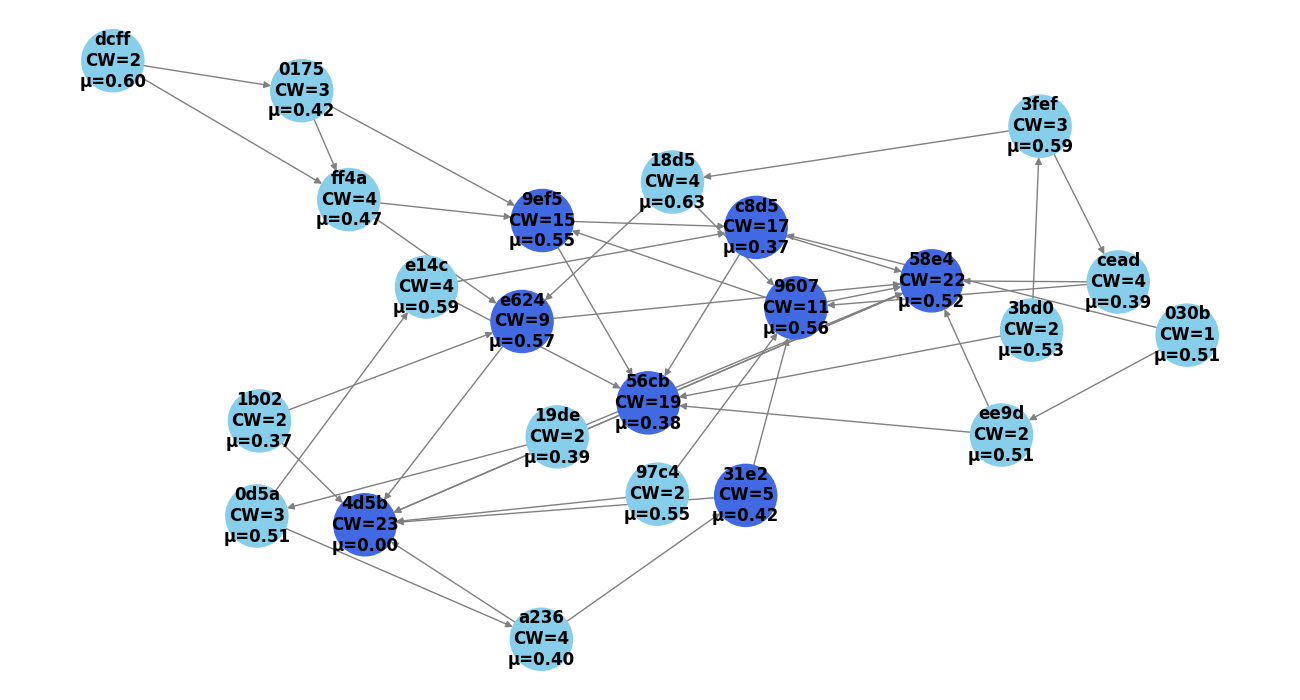
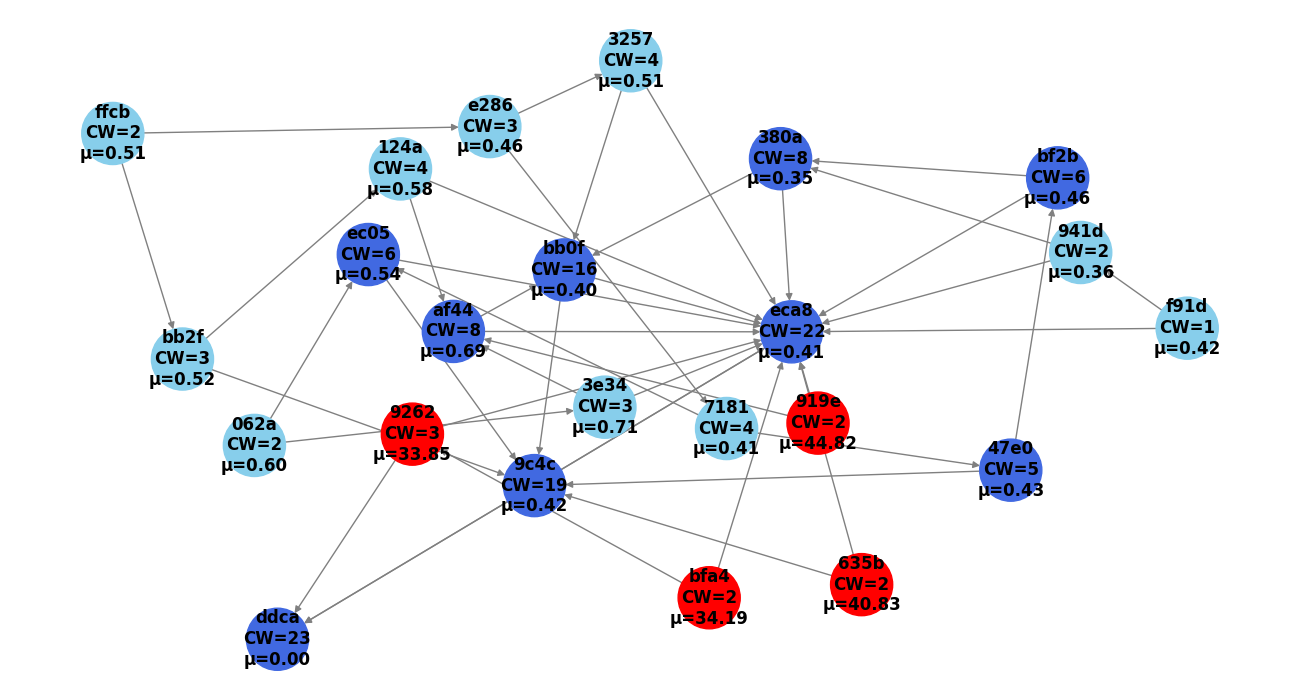
colored attackers and tweaked tip alg

diff --git a/TipSelectionAlgorithm.py b/TipSelectionAlgorithm.py
@@ -67,15 +67,29 @@ class IOTALikeTipSelector:
         
 class MyCustomTipSelector(TipSelectionAlgorithm):
 
-    def __init__(self, max_depth=3, similarity_threshold=0.5):
+    def __init__(self, max_depth=3, similarity_threshold=0.3):
         self.max_depth = max_depth
         self.similarity_threshold = similarity_threshold
 
-    # Cosine similarity between two matrices
+    # Cosine similarity between two matrices - consider also magnitude!
     def cosine_similarity(self, m1, m2):
         v1 = m1.flatten()
         v2 = m2.flatten()
-        return np.dot(v1, v2) / (np.linalg.norm(v1) * np.linalg.norm(v2))
+        norm_v1 = np.linalg.norm(v1)
+        norm_v2 = np.linalg.norm(v2)
+        
+        # Controlla se una delle norme è zero per evitare divisioni per zero
+        if norm_v1 == 0 or norm_v2 == 0:
+            return 0  # Similarità nulla se uno dei vettori è nullo
+        
+        # Similarità coseno
+        cosine_sim = np.dot(v1, v2) / (norm_v1 * norm_v2)
+        
+        # Penalizza le differenze di magnitudine
+        magnitude_penalty = 1 - abs(norm_v1 - norm_v2) / max(norm_v1, norm_v2)
+        
+        # Restituisci una combinazione di similarità coseno e penalità di magnitudine
+        return cosine_sim * magnitude_penalty
 
     # Evaluate similarity score recursively up to a maximum depth
     def evaluate_similarity(self, node_id, dag: DAG, new_matrix):
@@ -91,12 +105,19 @@ class MyCustomTipSelector(TipSelectionAlgorithm):
 
             current_matrix = dag.nodes[current].data
             sim = self.cosine_similarity(new_matrix, current_matrix)
-            similarities.append((1 / (1 + depth)) * sim)
+            
+            # Aggiungi solo valori validi
+            if not np.isnan(sim):
+                # Applica un peso maggiore al nodo corrente rispetto ai genitori
+                weight = 2.0 if depth == 0 else (1 / (1 + depth**2))
+                similarities.append(weight * sim)
 
             for parent in dag.graph.successors(current):
+                print(f"Current node: {current}, Parent (successor?): {parent}")
                 queue.append((parent, depth + 1))
-        #print(sum(similarities)/len(similarities))
-        return sum(similarities) / len(similarities) if similarities else None
+        
+        # Calcola la media delle similarità pesate solo se ci sono valori validi
+        return sum(similarities) / len(similarities) if similarities else 0
 
     def select_tips(self, dag: DAG, new_matrix) -> list:
         # Step 1: trova tutti i tip 
@@ -105,21 +126,24 @@ class MyCustomTipSelector(TipSelectionAlgorithm):
             n for n in dag.graph.nodes
             if dag.graph.in_degree(n) == 0 and not dag.is_confirmed(n)
         ]
+        #print(f"Candidate tips: {candidate_tips}")
 
         # Step 2: calcola similarità (compresi genitori) per ogni tip
         scored = []
         for tip in candidate_tips:
             score = self.evaluate_similarity(tip, dag, new_matrix)
-            if score is not None and score >= self.similarity_threshold:
+            print(f"Tip: {tip}, Score: {score}")
+            if score is not None:
                 scored.append((tip, score))
 
         # Ordina per score decrescente
         scored.sort(key=lambda x: x[1], reverse=True)
+       # print(scored)
 
-        # Step 3: prendi fino a 2 tip "buoni"
-        selected = [tip for tip, _ in scored[:2]]
-        print(scored)
-        ## Step 4: se meno di 2, aggiungi fallback da nodi confermati con CW > 3
+        # Step 3: seleziona i migliori nodi non confermati
+        selected = [tip for tip, _ in scored if _ >= self.similarity_threshold][:2]
+        print(selected)
+        # Step 4: se meno di 2, aggiungi fallback da nodi confermati con CW > 3
         if len(selected) < 2:
             confirmed_nodes = [
                 n for n in dag.graph.nodes
@@ -129,7 +153,7 @@ class MyCustomTipSelector(TipSelectionAlgorithm):
             confirmed_scores = []
             for node in confirmed_nodes:
                 score = self.evaluate_similarity(node, dag, new_matrix)
-                if score is not None and score >= self.similarity_threshold:
+                if score is not None:
                     confirmed_scores.append((node, score))
 
             confirmed_scores.sort(key=lambda x: x[1], reverse=True)
@@ -137,12 +161,11 @@ class MyCustomTipSelector(TipSelectionAlgorithm):
             # Aggiungi i nodi confermati simili
             selected += [node for node, _ in confirmed_scores[:2 - len(selected)]]
 
-        # Step 5: se ancora meno di 2, prendi qualsiasi altro nodo confermato come fallback finale
+        # Step 5: se ancora meno di 2, prendi qualsiasi altro nodo come fallback finale
         if len(selected) < 2:
-            backup_nodes = [n for n in dag.graph.nodes]
+            backup_nodes = [n for n in dag.graph.nodes if n not in selected]
             random.shuffle(backup_nodes)
             selected += backup_nodes[:2 - len(selected)]
-
 
         # Ultimo controllo di sicurezza
         return selected[:2]

diff --git a/Sim_1.py b/Sim_1.py
@@ -11,10 +11,13 @@ from PIL import Image
 
 def draw_dag(dag, step, pos, folder="frames"):
     plt.figure(figsize=(13, 7))
-    # Colori dei nodi in base alla conferma
+    # Colori dei nodi in base alla conferma e alla malevolenza
     node_colors = []
     for node_id in dag.graph.nodes:
-        if dag.is_confirmed(node_id):
+        node = dag.nodes[node_id]
+        if getattr(node, "malicious", False):  # Controlla se il nodo è malevolo
+            node_colors.append("red")  # Rosso per nodi malevoli
+        elif dag.is_confirmed(node_id):
             node_colors.append("royalblue")  # Blu scuro per confermati
         else:
             node_colors.append("skyblue")    # Azzurro per non confermati
@@ -36,7 +39,6 @@ def draw_dag(dag, step, pos, folder="frames"):
         matrix_mean = np.mean(node.data)
         labels[node_id] = f"{node_id[:4]}\nCW={node.cw}\nμ={matrix_mean:.2f}"
 
-    
     nx.draw_networkx_labels(
         dag.graph,
         pos,
@@ -63,6 +65,9 @@ def make_gif(frame_folder="frames", output_gif="dag_evolution.gif", duration=100
         images[0].save(output_gif, save_all=True, append_images=images[1:], duration=duration, loop=0)
         print(f"GIF salvata come {output_gif}")
 
+def generate_data_matrix(size=(3, 3)):
+    return np.random.rand(*size)
+
 matplotlib.use('Qt5Agg')
 
 # Simulazione di un DAG con 5 peer e 25 nodi
@@ -80,11 +85,23 @@ pos = nx.spring_layout(dag.graph, seed=42)  # layout iniziale
 draw_dag(dag, step=0, pos=pos)
 
 # Ogni peer aggiunge 5 nodi (25 totali)
-step=1
+step = 1
 added_node_ids = []
-for _ in range(5):
+malicious_peer = peers[3]  # Definiamo il terzo peer come malevolo
+
+for _ in range(2):
     for peer in peers:
-        node_id = peer.add_node()
+        if peer == malicious_peer:
+            # Genera una matrice malevola con valori molto alti
+            data_matrix = np.random.rand(3, 3) * 100
+            node = DAGNode.DAGNode(data_matrix)
+            node.malicious = True  # Marca il nodo come malevolo
+        else:
+            # Genera una matrice normale
+            data_matrix = generate_data_matrix()
+            node = DAGNode.DAGNode(data_matrix)
+        
+        node_id = peer.add_node(node)
         added_node_ids.append(node_id)
         pos = nx.spring_layout(dag.graph, seed=42, pos=pos, fixed=list(pos.keys()))
         draw_dag(dag, step=step, pos=pos)

diff --git a/Peer.py b/Peer.py
@@ -8,13 +8,9 @@ class Peer:
         self.selector = selector
         self.name = name
 
-    def generate_data_matrix(self, size=(3, 3)):
-        return np.random.rand(*size)
 
-    def add_node(self):
-        data_matrix = self.generate_data_matrix()
-        new_node = DAGNode.DAGNode(data_matrix)
-        selected_parents = self.selector.select_tips(self.dag, data_matrix)
+    def add_node(self,new_node):
+        selected_parents = self.selector.select_tips(self.dag, new_node.data)
 
         # Logging info
         print(f"\n[{self.name}] Adding node {new_node.id[:6]}")

diff --git a/DAGNode.py b/DAGNode.py
@@ -1,13 +1,13 @@
-
 import networkx as nx
 import uuid
 
 class DAGNode:
-    def __init__(self, data_matrix):
+    def __init__(self, data_matrix, malicious=False):
         self.id = str(uuid.uuid4())
         self.data = data_matrix
         self.approved_by = set()
         self.cw = 1  # peso di quel nodo
+        self.malicious = malicious  # Indica se il nodo è malevolo
 
     def __repr__(self):
-        return f"DAGNode({self.id[:8]})"
+        return f"DAGNode({self.id[:8]}, malicious={self.malicious})"
